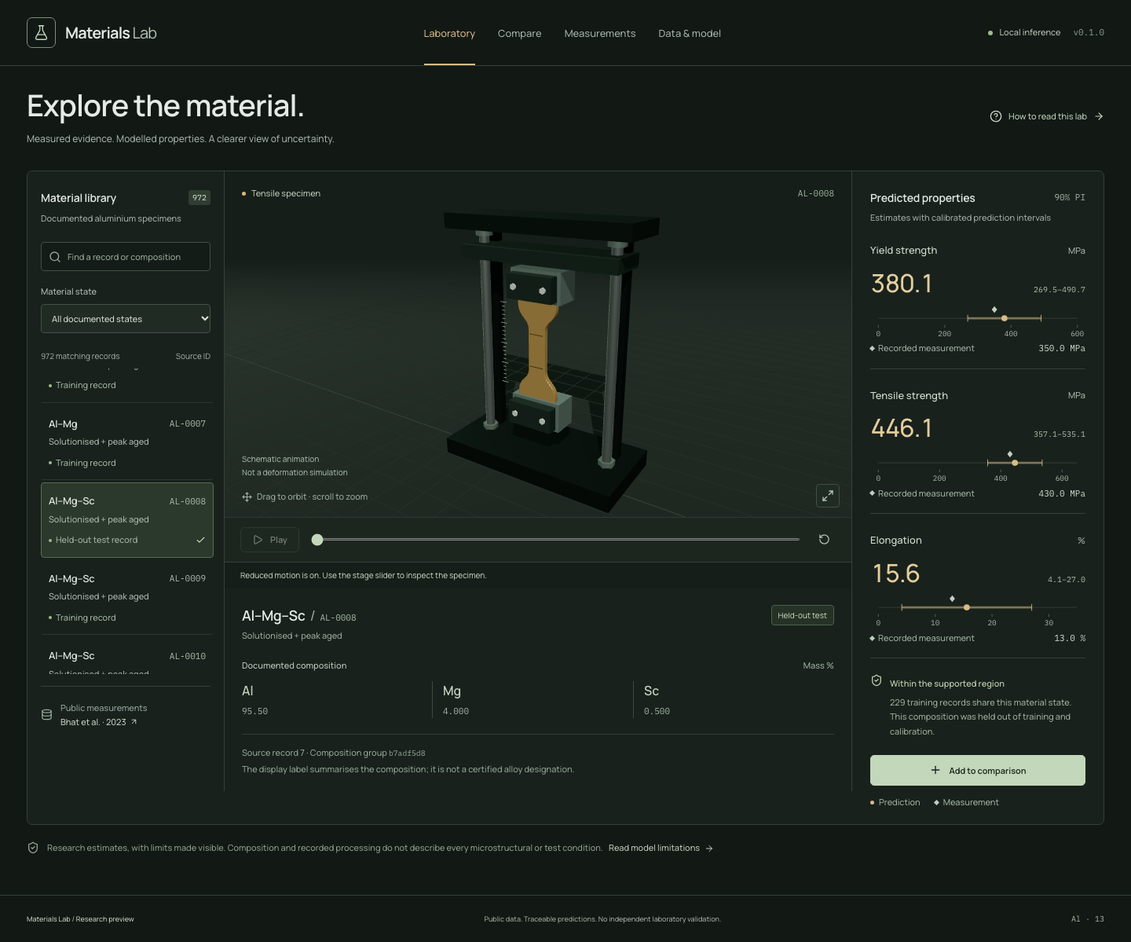
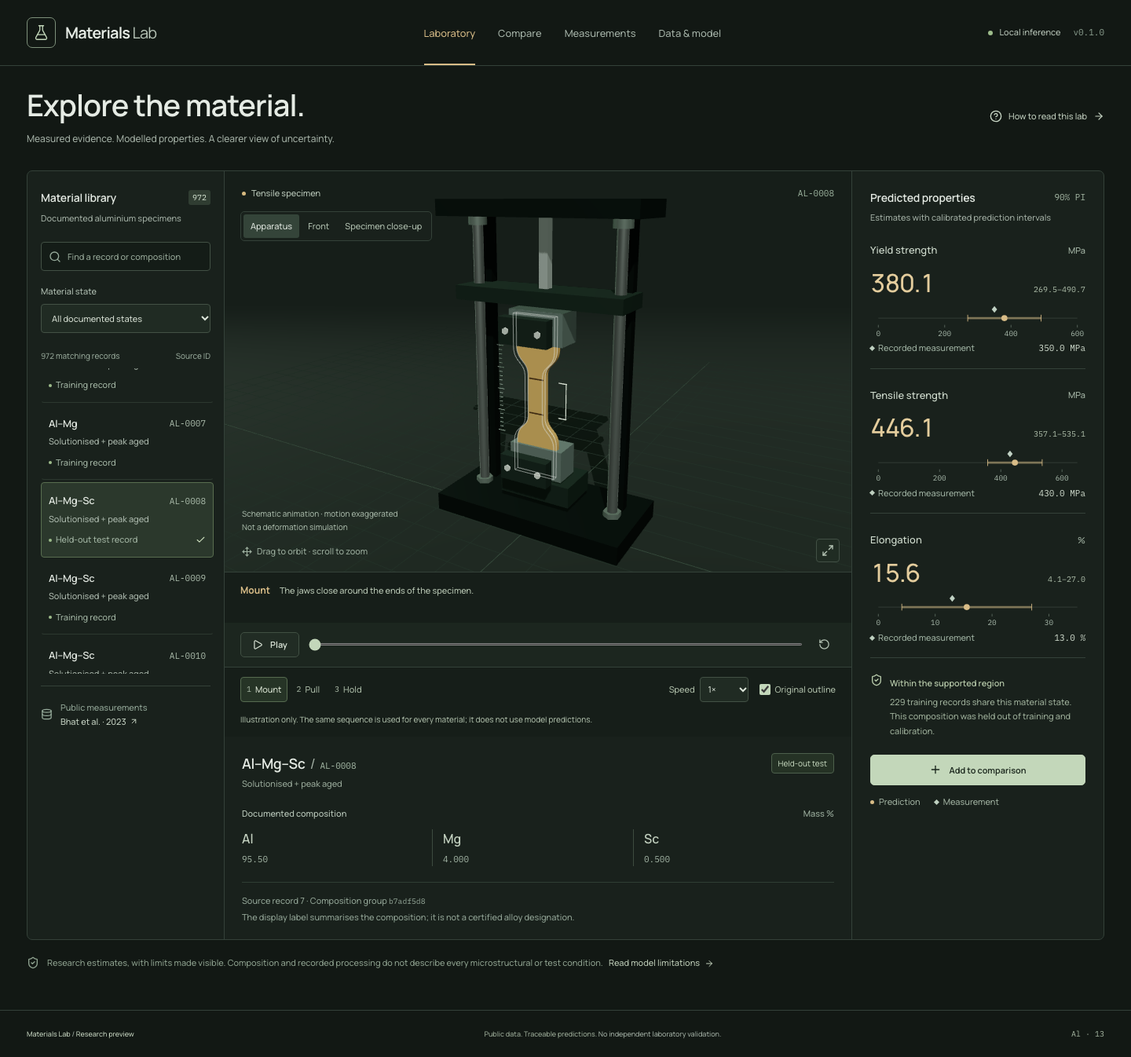
feat: make tensile illustration staged and interactive

diff --git a/src/components/Specimen.tsx b/src/components/Specimen.tsx
@@ -1,31 +1,41 @@
 import { Canvas, useThree } from '@react-three/fiber';
-import { Component, Suspense, useEffect, useMemo, useRef, useState, type ReactNode } from 'react';
-import { ExtrudeGeometry, Shape, Mesh, Vector3 } from 'three';
+import { Component, Suspense, useEffect, useLayoutEffect, useMemo, useState, type ReactNode } from 'react';
+import { ExtrudeGeometry, Shape, Vector3, EdgesGeometry, DynamicDrawUsage, type BufferAttribute } from 'three';
 import { OrbitControls } from 'three/examples/jsm/controls/OrbitControls.js';
 import { Pause, Play, RotateCcw, Move, Maximize2 } from 'lucide-react';
+import { useIllustration } from '../lib/useIllustration';
+
+type View = 'apparatus' | 'front' | 'detail';
+const phases = [
+  { name: 'Mount', at: 0, description: 'The jaws close around the ends of the specimen.' },
+  { name: 'Pull', at: .52, description: 'The upper grip moves. Watch the two gauge marks separate.' },
+  { name: 'Hold', at: 1, description: 'Compare the extended coupon with its original outline.' },
+];
+const smooth = (v: number) => { const x = Math.max(0, Math.min(1, v)); return x * x * (3 - 2 * x); };
+const shiftedY = (y: number, pull: number) => y + pull * smooth((y + .60) / 1.20);
 
 class SceneBoundary extends Component<{ children: ReactNode; fallback: ReactNode }, { failed: boolean }> {
   state = { failed: false };
   static getDerivedStateFromError() { return { failed: true }; }
   render() { return this.state.failed ? this.props.fallback : this.props.children; }
 }
-function CameraControls({ reset }: { reset: number }) {
+function CameraControls({ reset, view }: { reset: number; view: View }) {
   const { camera, gl, invalidate } = useThree();
   useEffect(() => {
-    camera.position.set(3.7, 2.5, 5.8); camera.lookAt(0, .1, 0);
+    const position: [number, number, number] = view === 'front' ? [0, .35, 8.2] : view === 'detail' ? [1.5, .75, 3.3] : [3.8, 2.6, 6.6];
+    camera.position.set(...position); camera.lookAt(0, .35, 0);
     const c = new OrbitControls(camera, gl.domElement);
-    c.target = new Vector3(0, .1, 0); c.enablePan = false; c.minDistance = 4; c.maxDistance = 11;
+    c.target = new Vector3(0, .35, 0); c.enablePan = false; c.minDistance = 2.4; c.maxDistance = 11;
     const refresh = () => invalidate();
     c.maxPolarAngle = Math.PI * .75; c.addEventListener('change', refresh); c.update(); invalidate();
     return () => { c.removeEventListener('change', refresh); c.dispose(); };
-  }, [camera, gl, invalidate, reset]);
+  }, [camera, gl, invalidate, reset, view]);
   return null;
 }
 function Block({ position, size, color = '#48534e', metal = .65 }: { position: [number, number, number]; size: [number, number, number]; color?: string; metal?: number }) {
   return <mesh position={position} castShadow receiveShadow><boxGeometry args={size}/><meshStandardMaterial color={color} metalness={metal} roughness={.38}/></mesh>;
 }
-function Coupon({ stage }: { stage: number }) {
-  const mesh = useRef<Mesh>(null);
+function Coupon({ pull, outline }: { pull: number; outline: boolean }) {
   const geometry = useMemo(() => {
     const s = new Shape();
     s.moveTo(-.31, 1.14); s.lineTo(.31, 1.14); s.lineTo(.31, .69);
@@ -37,29 +47,55 @@ function Coupon({ stage }: { stage: number }) {
     const g = new ExtrudeGeometry(s, { depth: .065, bevelEnabled: true, bevelThickness: .009, bevelSize: .009, bevelSegments: 3, steps: 1, curveSegments: 20 });
     g.translate(0, 0, -.0325); return g;
   }, []);
-  useEffect(() => () => geometry.dispose(), [geometry]);
-  return <group scale={[1, 1 + stage * .16, 1]}>
-    <mesh ref={mesh} geometry={geometry} castShadow><meshStandardMaterial color="#e3bc72" metalness={.78} roughness={.28}/></mesh>
-    {[-.25, .25].map(y => <Block key={y} position={[0, y, .046]} size={[.22, .012, .004]} color="#4c3f25" metal={.1}/>)}
+  const initial = useMemo(() => new Float32Array(geometry.attributes.position.array), [geometry]);
+  const edges = useMemo(() => new EdgesGeometry(geometry, 25), [geometry]);
+  const { invalidate } = useThree();
+  useLayoutEffect(() => {
+    const position = geometry.attributes.position as BufferAttribute;
+    position.setUsage(DynamicDrawUsage);
+    for (let i = 0; i < position.count; i++) {
+      const x = initial[i * 3], y = initial[i * 3 + 1], z = initial[i * 3 + 2];
+      const middle = 1 - smooth(Math.abs(y) / .65);
+      position.setXYZ(i, x * (1 - middle * pull * .14), shiftedY(y, pull), z);
+    }
+    position.needsUpdate = true;
+    geometry.computeVertexNormals();
+    geometry.computeBoundingSphere();
+    invalidate();
+  }, [geometry, initial, pull, invalidate]);
+  useEffect(() => () => { geometry.dispose(); edges.dispose(); }, [geometry, edges]);
+  return <group>
+    <mesh geometry={geometry} castShadow><meshStandardMaterial color="#e3bc72" metalness={.65} roughness={.3}/></mesh>
+    {outline && <lineSegments geometry={edges} position={[0, 0, .08]} renderOrder={2}><lineBasicMaterial color="#d8e4d7" transparent opacity={.35} depthTest={false}/></lineSegments>}
+    {[-.25, .25].map(y => <Block key={y} position={[0, shiftedY(y, pull), .046]} size={[.22, .018, .006]} color="#493820" metal={.1}/>)}
+    <Block position={[.46, (shiftedY(-.25,pull)+shiftedY(.25,pull))/2, .05]} size={[.009, shiftedY(.25,pull)-shiftedY(-.25,pull), .009]} color="#c3d7ba" metal={0}/>
+    {[-.25,.25].map(y=><Block key={y} position={[.41, shiftedY(y,pull), .05]} size={[.12,.012,.01]} color="#c3d7ba" metal={0}/>)}
   </group>;
 }
-function Rig({ stage }: { stage: number }) {
-  const offset = stage * .18;
+function Rig({ stage, outline }: { stage: number; outline: boolean }) {
+  const offset = .72 * smooth((stage - .2) / .65);
+  const jawGap = .17 * (1 - smooth(stage / .2));
   return <group>
     <Block position={[0, -1.78, -.2]} size={[2.9, .26, 1.4]} color="#202b26"/>
-    <Block position={[0, 1.8, -.2]} size={[2.9, .22, .9]} color="#25322c"/>
+    <Block position={[0, 2.5, -.2]} size={[2.9, .22, .9]} color="#25322c"/>
     {[-1.08, 1.08].map(x => <group key={x}>
-      <mesh position={[x, 0, -.2]} castShadow><cylinderGeometry args={[.075, .075, 3.5, 24]}/><meshStandardMaterial color="#aab6ae" metalness={.9} roughness={.25}/></mesh>
-      <Block position={[x, 0, -.45]} size={[.18, 3.4, .14]} color="#202b26"/>
-      {[-1.63, 1.62].map(y => <mesh key={y} position={[x,y,-.2]}><cylinderGeometry args={[.13,.13,.11,6]}/><meshStandardMaterial color="#78877d" metalness={.7} roughness={.35}/></mesh>)}
+      <mesh position={[x, .35, -.2]} castShadow><cylinderGeometry args={[.075, .075, 4.25, 24]}/><meshStandardMaterial color="#aab6ae" metalness={.9} roughness={.25}/></mesh>
+      <Block position={[x, .35, -.45]} size={[.18, 4.2, .14]} color="#202b26"/>
+      {[-1.63, 2.32].map(y => <mesh key={y} position={[x,y,-.2]}><cylinderGeometry args={[.13,.13,.11,6]}/><meshStandardMaterial color="#78877d" metalness={.7} roughness={.35}/></mesh>)}
     </group>)}
     <Block position={[0, 1.36 + offset, -.2]} size={[2.5, .20, .66]} color="#35463c"/>
-    {[1,-1].map(sign => <group key={sign} position={[0, sign*(.97 + offset), 0]}>
+    {[1,-1].map(sign => <group key={sign} position={[0, sign*.97 + (sign === 1 ? offset : 0), 0]}>
       <Block position={[0, 0, -.12]} size={[.82,.45,.4]} color="#778880"/>
-      <Block position={[0, 0, .17]} size={[.72,.36,.16]} color="#37473e"/>
-      {[-.24,.24].map(x => <mesh key={x} position={[x,0,.265]} rotation={[Math.PI/2,0,0]}><cylinderGeometry args={[.048,.048,.03,6]}/><meshStandardMaterial color="#c2cbc1" metalness={.8}/></mesh>)}
+      <Block position={[0, 0, .17 + jawGap]} size={[.72,.36,.16]} color="#37473e"/>
+      {[-.24,.24].map(x => <mesh key={x} position={[x,0,.265 + jawGap]} rotation={[Math.PI/2,0,0]}><cylinderGeometry args={[.048,.048,.03,6]}/><meshStandardMaterial color="#c2cbc1" metalness={.8}/></mesh>)}
     </group>)}
-    <Coupon stage={stage}/>
+    <Block position={[0, -1.38, -.2]} size={[1.1,.3,.65]} color="#35463c"/>
+    <Block position={[0, 1.925 + offset/2, -.2]} size={[.13,.93-offset,.13]} color="#aab6ae"/>
+    <Coupon pull={offset} outline={outline}/>
+    {stage > .2 && <group position={[.72, 1.04 + offset, .1]}>
+      <Block position={[0,.08,0]} size={[.016,.26,.016]} color="#d8bc87" metal={0}/>
+      <mesh position={[0,.25,0]}><coneGeometry args={[.065,.14,16]}/><meshBasicMaterial color="#d8bc87"/></mesh>
+    </group>}
     {Array.from({ length: 21 }, (_, i) => <Block key={i} position={[-.62, (i-10)*.064, -.02]} size={[i%5===0 ? .11 : .05,.007,.009]} color="#718377" metal={0}/>)}
     <mesh rotation={[-Math.PI/2,0,0]} position={[0,-1.93,0]} receiveShadow><planeGeometry args={[50,50]}/><meshStandardMaterial color="#161e19" roughness={1}/></mesh>
     <gridHelper args={[20, 40, '#334638', '#223027']} position={[0,-1.925,0]}/>
@@ -69,37 +105,43 @@ export function SpecimenFallback() {
   return <div className="scene-fallback"><svg viewBox="0 0 200 280" role="img" aria-label="Schematic tensile specimen between two grips"><path d="M65 30H135V90Q135 110 115 120V160Q135 170 135 190V250H65V190Q65 170 85 160V120Q65 110 65 90Z" fill="#d5b17a"/><path d="M45 35H155V70H45ZM45 210H155V245H45Z" fill="#6d8174"/></svg><p>3D is unavailable. Predictions remain available.</p></div>;
 }
 export function Specimen({ sampleId }: { sampleId: string }) {
-  const [stage, setStage] = useState(0);
-  const [running, setRunning] = useState(false);
+  const { stage, running, speed, setSpeed, reducedMotion, seek, toggle, container } = useIllustration();
   const [reset, setReset] = useState(0);
-  const reducedMotion = useMemo(() => window.matchMedia('(prefers-reduced-motion: reduce)').matches, []);
-  useEffect(() => {
-    if (!running || stage >= 1) return;
-    const handle = window.setInterval(() => setStage(s => Math.min(1, s + .006)), 40);
-    return () => window.clearInterval(handle);
-  }, [running, stage]);
+  const [view, setView] = useState<View>('apparatus');
+  const [outline, setOutline] = useState(true);
+  const phase = stage < .2 ? 0 : stage < .85 ? 1 : 2;
   const complete = stage >= 1;
-  return <section className="specimen-panel" aria-label="Schematic 3D tensile test">
+  return <section ref={container} className="specimen-panel" aria-label="Schematic 3D tensile test">
     <div className="scene-heading"><span><span className="live-dot"/>Tensile specimen</span><span className="mono">{sampleId}</span></div>
     <div className="scene-area" data-testid="specimen-view">
       <SceneBoundary fallback={<SpecimenFallback/>}><Suspense fallback={<SpecimenFallback/>}>
-        <Canvas aria-label="Interactive 3D tensile test apparatus" shadows dpr={[1,1.5]} frameloop="demand" camera={{ position: [3.7,2.5,5.8], fov: 38 }} fallback={<SpecimenFallback/>}>
+        <Canvas aria-label="Interactive 3D tensile test apparatus" shadows dpr={[1,1.5]} frameloop="demand" camera={{ position: [3.8,2.6,6.6], fov: 38 }} fallback={<SpecimenFallback/>}>
           <color attach="background" args={['#161e19']}/><fog attach="fog" args={['#161e19', 12, 27]}/>
           <ambientLight intensity={1.3}/><hemisphereLight args={['#e6eedf','#252b1e',2]}/>
           <directionalLight castShadow position={[3,6,5]} intensity={3} shadow-mapSize={[1024,1024]} shadow-camera-left={-5} shadow-camera-right={5} shadow-camera-top={5} shadow-camera-bottom={-5}/>
           <directionalLight position={[-3,2,-1]} intensity={2} color="#b8d4bd"/>
-          <Rig stage={stage}/><CameraControls reset={reset}/>
+          <Rig stage={stage} outline={outline}/><CameraControls reset={reset} view={view}/>
         </Canvas>
       </Suspense></SceneBoundary>
-      <span className="scene-note">Schematic animation<br/>Not a deformation simulation</span>
+      <div className="scene-views" role="group" aria-label="Camera view">
+        {(['apparatus','front','detail'] as const).map(v=><button key={v} aria-pressed={view===v} onClick={()=>{setView(v);setReset(r=>r+1);}}>{v==='apparatus'?'Apparatus':v==='front'?'Front':'Specimen close-up'}</button>)}
+      </div>
+      <span className="scene-note">Schematic animation · motion exaggerated<br/>Not a deformation simulation</span>
       <span className="scene-hint"><Move size={13}/>Drag to orbit · scroll to zoom</span>
       <button className="icon-button camera-reset" onClick={() => setReset(r=>r+1)} aria-label="Reset camera"><Maximize2 size={16}/></button>
     </div>
+    <div className="scene-phase" aria-live="polite" aria-atomic="true"><strong>{phases[phase].name}</strong><p>{phases[phase].description}</p></div>
     <div className="scene-controls">
-      <button className="button subtle small" disabled={reducedMotion} onClick={() => { if (complete) setStage(0); setRunning(v => !v || complete); }} aria-label={running && !complete ? 'Pause illustration' : 'Play illustration'}>{running && !complete ? <Pause size={14}/> : <Play size={14}/>} {running && !complete ? 'Pause' : 'Play'}</button>
-      <input aria-label="Illustration stage" type="range" min="0" max="1" step=".01" value={stage} onChange={e=>{setRunning(false);setStage(Number(e.target.value));}}/>
-      <button className="icon-button" onClick={()=>{setRunning(false);setStage(0);}} aria-label="Reset illustration"><RotateCcw size={15}/></button>
+      <button className="button subtle small" disabled={reducedMotion} onClick={toggle} aria-label={running ? 'Pause illustration' : 'Play illustration'}>{running ? <Pause size={14}/> : <Play size={14}/>} {running ? 'Pause' : complete ? 'Replay' : 'Play'}</button>
+      <input aria-label="Illustration stage" aria-valuetext={Math.round(stage*100)+'% of illustration, '+phases[phase].name} type="range" min="0" max="1" step=".01" value={stage} onChange={e=>seek(Number(e.target.value))}/>
+      <button className="icon-button" onClick={()=>seek(0)} aria-label="Reset illustration"><RotateCcw size={15}/></button>
     </div>
-    {reducedMotion && <p className="motion-note">Reduced motion is on. Use the stage slider to inspect the specimen.</p>}
+    <div className="scene-options">
+      <div className="scene-steps" role="group" aria-label="Illustration phases">{phases.map((p,i)=><button key={p.name} aria-pressed={phase===i} onClick={()=>seek(p.at)}><span>{i+1}</span>{p.name}</button>)}</div>
+      <label className="scene-speed">Speed<select aria-label="Playback speed" value={speed} onChange={e=>setSpeed(Number(e.target.value))}><option value="0.5">0.5×</option><option value="1">1×</option><option value="2">2×</option></select></label>
+      <label className="scene-outline"><input type="checkbox" checked={outline} onChange={e=>setOutline(e.target.checked)}/>Original outline</label>
+    </div>
+    <p className="motion-note">Illustration only. The same sequence is used for every material; it does not use model predictions.</p>
+    {reducedMotion && <p className="motion-note">Reduced motion is on. Use the stage slider or phase buttons to inspect the specimen.</p>}
   </section>;
 }

diff --git a/src/style.css b/src/style.css
@@ -16,3 +16,27 @@
 
 /* Comparison labels use screen pixels; resizing changes the axis, not the type. */
 .comparison-plot{display:block;width:100%;max-height:none}.comparison-plot text{font-size:13px}
+
+/* A controlled tensile sequence: the specimen carries the motion. */
+.scene-area{height:510px}
+.scene-views{position:absolute;top:51px;left:20px;display:flex;gap:2px;padding:3px;background:#19211c;border:1px solid var(--line);border-radius:5px}
+.scene-views button{background:transparent;border:0;border-radius:3px;color:#b7c7b6;padding:7px 9px;font-size:11px;min-height:30px}
+.scene-views button[aria-pressed=true]{background:#344439;color:#e5ebe4}
+.scene-views button:hover{color:var(--accent)}
+.scene-note{bottom:48px;font-size:10px;line-height:1.7}
+.scene-phase{padding:14px 20px 12px;border-top:1px solid var(--line);display:flex;gap:12px;align-items:baseline;min-height:65px}
+.scene-phase strong{font-size:12px;color:var(--accent);min-width:36px}
+.scene-phase p{font-size:11px;line-height:1.65;color:#c0cfbb;max-width:52ch}
+.scene-controls{border-top:0;gap:12px}
+.scene-options{display:flex;align-items:center;gap:14px;flex-wrap:wrap;padding:12px 20px 5px}
+.scene-steps{display:flex;gap:3px;flex:1}
+.scene-steps button{display:flex;gap:5px;align-items:center;min-height:32px;padding:5px 7px;background:transparent;border:1px solid transparent;border-radius:4px;font-size:11px;color:#b1c2ad}
+.scene-steps button span{font-family:var(--mono);font-size:10px;color:#a8b8a5}
+.scene-steps button[aria-pressed=true]{border-color:#566b50;background:#263426;color:#e0ead9}
+.scene-steps button:hover{color:var(--accent)}
+.scene-speed{display:flex;gap:6px;align-items:center;font-size:11px;color:#b6c6b0}
+.scene-speed select{width:62px;padding:6px;font-size:11px;min-height:32px}
+.scene-outline{display:flex;align-items:center;gap:6px;font-size:11px;color:#b6c6b0;min-height:30px;cursor:pointer}
+.scene-outline input{accent-color:var(--green);width:14px;height:14px}
+.specimen-panel>.motion-note{font-size:10px;line-height:1.7;padding:9px 20px 13px;color:#aebeaa}
+@media(max-width:720px){.scene-area{height:460px}.scene-views{left:14px}.scene-views button{padding:7px 8px}.scene-phase{padding:13px 16px;min-height:70px}.scene-options{padding:10px 16px 3px;gap:8px}.scene-steps button{padding:5px 6px}.scene-outline{width:100%}.scene-controls{padding:12px 16px}.scene-note{left:16px;font-size:10px}.specimen-panel>.motion-note{padding:9px 16px 12px}}

diff --git a/tests/e2e/lab.spec.ts b/tests/e2e/lab.spec.ts
@@ -69,3 +69,37 @@ test('mocked worker fixture exercises model-independent UI',async({page})=>{
   },{id:initial.id,values:{yield:123.4,tensile:234.5,elongation:12.3}});
   await page.goto('');await expect(page.getByTestId('prediction-ready')).toBeVisible();await expect(page.locator('.property-value').first()).toContainText('123.4');
 });
+
+
+test('illustration phases, camera views, scrubbing and replay', async ({ page }) => {
+  await page.goto('');
+  await expect(page.getByTestId('prediction-ready')).toBeVisible();
+  const slider = page.getByRole('slider', { name: 'Illustration stage' });
+  const canvas = page.locator('canvas');
+  await expect(canvas).toBeVisible();
+  const mounted = await canvas.screenshot();
+  await page.getByRole('button', { name: '3 Hold', exact: true }).click();
+  await expect(slider).toHaveValue('1');
+  await expect(page.locator('.scene-phase')).toContainText('Compare the extended coupon');
+  const extended = await canvas.screenshot();
+  expect(extended.equals(mounted)).toBe(false);
+  await page.getByRole('button', { name: 'Specimen close-up', exact: true }).click();
+  await expect(page.getByRole('button', { name: 'Specimen close-up', exact: true })).toHaveAttribute('aria-pressed', 'true');
+  expect((await canvas.screenshot()).equals(extended)).toBe(false);
+  await page.getByRole('checkbox', { name: 'Original outline' }).uncheck();
+  await expect(page.getByRole('checkbox', { name: 'Original outline' })).not.toBeChecked();
+  await page.getByRole('combobox', { name: 'Playback speed' }).selectOption('2');
+  await page.getByRole('button', { name: 'Play illustration', exact: true }).click();
+  await expect(page.getByRole('button', { name: 'Pause illustration', exact: true })).toBeVisible();
+  await expect.poll(async () => Number(await slider.inputValue())).toBeGreaterThan(.02);
+  await page.getByRole('button', { name: 'Pause illustration', exact: true }).click();
+  const paused = await slider.inputValue();
+  await page.waitForTimeout(150);
+  await expect(slider).toHaveValue(paused);
+  await page.getByRole('button', { name: '2 Pull', exact: true }).click();
+  await expect(slider).toHaveValue('0.52');
+  await page.emulateMedia({ reducedMotion: 'reduce' });
+  await expect(page.getByRole('button', { name: 'Play illustration', exact: true })).toBeDisabled();
+  await page.getByRole('button', { name: '3 Hold', exact: true }).click();
+  await expect(slider).toHaveValue('1');
+});

diff --git a/src/lib/useIllustration.ts b/src/lib/useIllustration.ts
@@ -1,0 +1,49 @@
+import { useCallback, useEffect, useRef, useState } from 'react';
+
+/** Playback time is illustrative; it is not material strain or test duration. */
+export function useIllustration() {
+  const [stage, setStage] = useState(0);
+  const [running, setRunning] = useState(false);
+  const [speed, setSpeed] = useState(1);
+  const [reducedMotion, setReducedMotion] = useState(() => window.matchMedia('(prefers-reduced-motion: reduce)').matches);
+  const progress = useRef(0);
+  const container = useRef<HTMLElement>(null);
+  const seek = useCallback((value: number) => {
+    setRunning(false);
+    progress.current = value;
+    setStage(value);
+  }, []);
+  useEffect(() => {
+    const media = window.matchMedia('(prefers-reduced-motion: reduce)');
+    const preference = () => { setReducedMotion(media.matches); if (media.matches) setRunning(false); };
+    const visibility = () => { if (document.hidden) setRunning(false); };
+    const observer = new IntersectionObserver(([entry]) => { if (!entry.isIntersecting) setRunning(false); });
+    if (container.current) observer.observe(container.current);
+    media.addEventListener('change', preference);
+    document.addEventListener('visibilitychange', visibility);
+    return () => { media.removeEventListener('change', preference); document.removeEventListener('visibilitychange', visibility); observer.disconnect(); };
+  }, []);
+  useEffect(() => {
+    if (!running || reducedMotion) return;
+    let frame: number;
+    let last: number | undefined;
+    const tick = (now: number) => {
+      if (last === undefined) last = now;
+      if (now - last >= 32) {
+        progress.current = Math.min(1, progress.current + Math.min(now - last, 100) * speed / 12000);
+        last = now;
+        setStage(progress.current);
+        if (progress.current >= 1) { setRunning(false); return; }
+      }
+      frame = requestAnimationFrame(tick);
+    };
+    frame = requestAnimationFrame(tick);
+    return () => cancelAnimationFrame(frame);
+  }, [running, speed, reducedMotion]);
+  const toggle = () => {
+    if (reducedMotion) return;
+    if (progress.current >= 1) { progress.current = 0; setStage(0); }
+    setRunning(v => !v);
+  };
+  return { stage, running, speed, setSpeed, reducedMotion, seek, toggle, container };
+}

diff --git a/DESIGN.md b/DESIGN.md
@@ -187,7 +187,7 @@ Each record is a full-width selectable row with material label, source identifie
 Scalar estimates use a circle and capped interval; measurements use diamonds. Exact values and units remain in adjacent text or tables. Comparison charts allocate 55px per record and adapt the plotting range to the measured container width; three or five ticks are used according to width. Categorical record color never replaces measurement shape or a label.
 
 ### Schematic specimen
-Authored geometry shows the tensile fixture and gold coupon on a subdued grid. Orbit, zoom, camera reset, play/pause, stage slider and illustration reset are explicit controls. Animation starts paused. Reduced motion disables playback while retaining stage inspection, and CSS transitions/animations are suppressed. WebGL failure replaces the scene with an SVG schematic and explanatory text while predictions remain available. Scene timing is illustration behavior, not a general UI motion token.
+Authored geometry shows the tensile fixture and gold coupon on a subdued grid. Orbit, zoom, three camera presets, camera reset, play/pause/replay, stage slider and illustration reset are explicit controls. Mount / Pull / Hold phase buttons, a 0.5× / 1× / 2× playback selector and an original-outline toggle explain the sequence. The upper crosshead moves while the lower grip stays fixed; gauge marks separate. Motion is deliberately exaggerated and identical for every record. Animation starts paused, runs at a bounded update rate, and pauses when hidden or offscreen. Reduced motion disables playback while retaining stage and phase inspection, including when the preference changes during use; CSS transitions/animations are suppressed. WebGL failure replaces the scene with an SVG schematic and explanatory text while predictions remain available. Scene timing is illustration behavior, not a general UI motion token.
 
 ## Do's and Don'ts
 

diff --git a/VALIDATION.md b/VALIDATION.md
@@ -37,3 +37,9 @@ Run `npm run check`, `.venv/bin/python -m pytest -q`, `.venv/bin/python scripts/
 The requested first remote is private `jaworskig00/materials-lab`. GitHub Pages stays disabled. The publication workflow is manual and refuses private repositories. Making the repository public, creating the public v1.0.0 release and enabling Pages require the owner's separate decision.
 
 Local generated environments, runtime copies, imports, browser traces and scratch files are ignored. Only the public source snapshot and authored project assets belong in Git history. No user-imported laboratory records are included.
+
+## 3D illustration refinement
+
+The subsequent scene update adds jaw closure, fixed lower/moving upper grips, visible gauge separation, an original-outline overlay, three camera presets, phase jumps and variable playback speed. It is identical for every material and does not consume prediction values.
+
+Local lint, TypeScript, 11 unit tests and production build passed. Browser coverage increased to 14 passing tests (seven per browser); the added test checks visibly changed canvas captures, camera presets, outline selection, replay, pause, direct phase selection and live reduced-motion preferences. React Doctor found no issues in the changed scene and playback hook. Desktop and mobile captures report no script errors and a 390px mobile document width. Model files and their calibration are unchanged. GitHub Actions provides the result for the exact updated commit.

diff --git a/docs/SCENE-MOTION.md b/docs/SCENE-MOTION.md
@@ -1,0 +1,9 @@
+# Tensile illustration motion
+
+Focal moment: the upper crosshead travels visibly upward while the lower grip stays fixed; gauge marks separate on the gold coupon. Jaw closure precedes the pull. A quiet original-outline overlay gives the displacement a reference.
+
+Continuity: Mount → Pull → Hold, with direct stage selection and scrubbing. This sequence is the same for every catalogue record; it is deliberately exaggerated and independent of all model predictions. No stress field, fracture, force or physical strain is inferred.
+
+Feedback: Play/Pause/Replay, reset, playback speed, camera presets and an original-outline toggle. Current phase has a short explanation. All controls work with the keyboard.
+
+Budget: one existing WebGL canvas, demand rendering when idle, bounded geometry updates during user-started playback. No new runtime dependencies. Pause when hidden or offscreen; reduced motion retains manual snapshots and camera presets.

diff --git a/README.md b/README.md
@@ -10,7 +10,7 @@ A browser research workspace for documented aluminium tensile properties. Three 
 
 - Search 972 audited records and inspect recorded composition and processing state.
 - Run three real ONNX models locally, with 90% prediction intervals and training-support indicators.
-- Orbit a schematic tensile apparatus; play, pause or inspect its illustration stage.
+- Inspect a schematic tensile apparatus through three camera views; play Mount / Pull / Hold, change speed, scrub, and compare with the original outline.
 - Compare up to four specimens, export CSV/JSON, and inspect exact measured/predicted values.
 - Import local laboratory CSVs and compare measured values against the catalogue-constrained predictions. Imported data stays on the device.
 - Inspect held-out metrics, source attribution, exclusions and model limitations.
